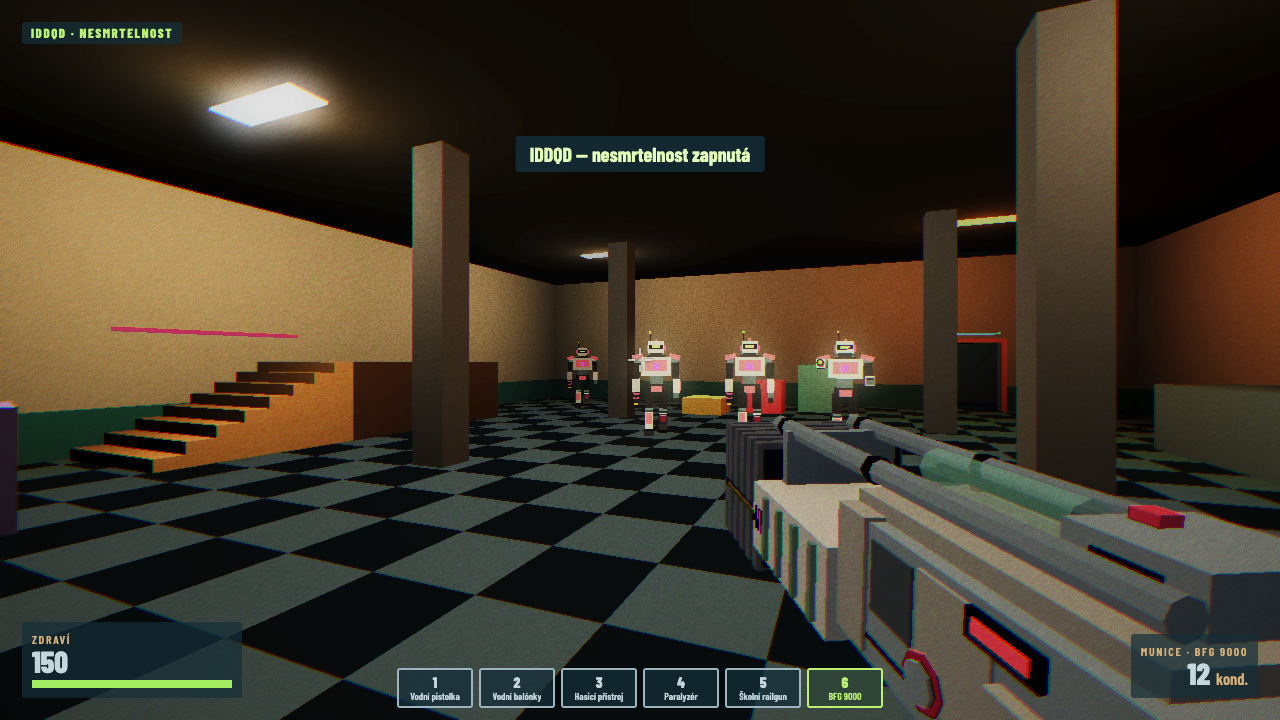
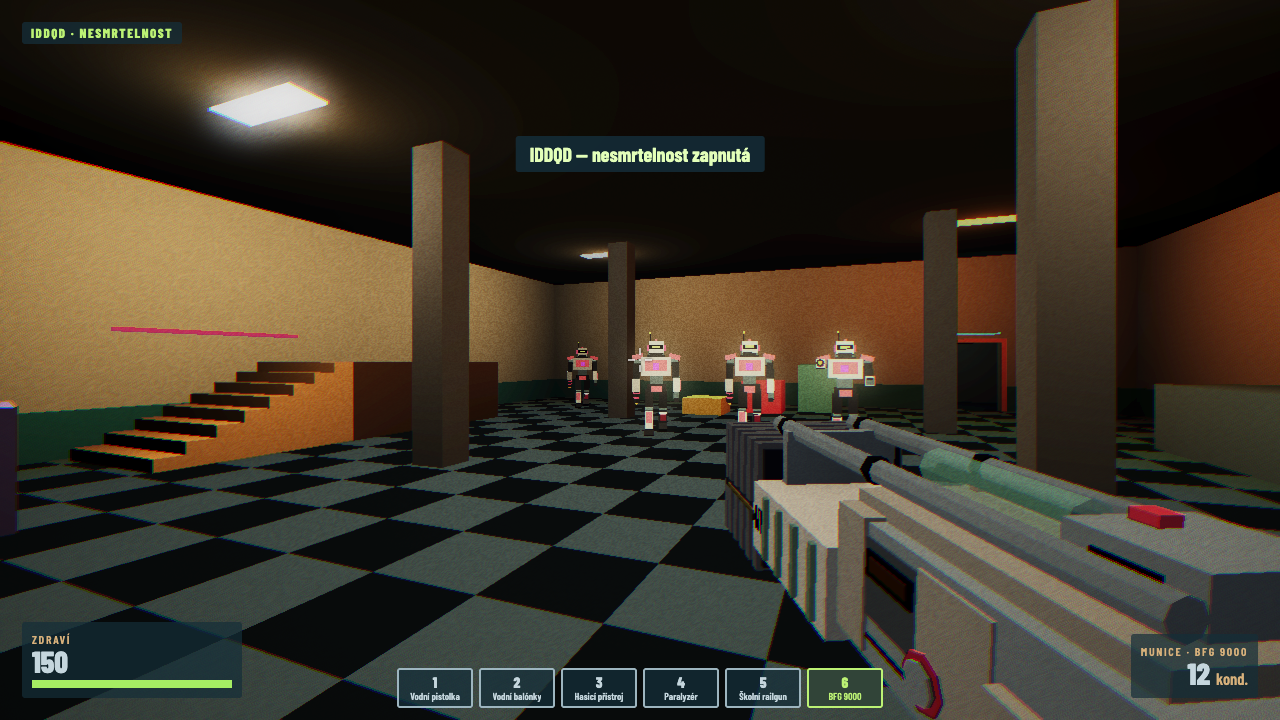
FEEDBACK: BFG side LED panel is dark red, glows bright red through the 5 s cooldown

Changed region(s): [[0.75, 0.825, 0.8438, 0.9778], [0.6562, 0.7639, 0.7188, 0.9167]]

diff --git a/src/weapons/Bfg9000.ts b/src/weapons/Bfg9000.ts
@@ -67,7 +67,7 @@ interface BlastInfo {
  * it and within `params.empVertical` m of its height (the same floor; walls do not stop it) takes `damage` electric —
  * enough for any robot on any difficulty — and robots farther out up to `params.stunRadiusN` freeze for
  * `params.stunSeconds`. The player and the teachers are never hurt. After a shot a short cooldown (1 / `fireRate`)
- * with the ribs, the core and the tube dark; then a chime (`sounds.ready`).
+ * with the ribs, the core and the tube dark and the side LED panel bright red; then a chime (`sounds.ready`).
  */
 export class Bfg9000 extends Weapon {
   private readonly balls: PlasmaBalls;
@@ -75,9 +75,12 @@ export class Bfg9000 extends Weapon {
   private readonly effect: EffectData;
   /** Glow colour of the ribs, the core and the tube (`effect.partColor`, else the ball's colour). */
   private readonly partColor: string;
+  /** Glow colour of the side LED panel while cooling down (`effect.cooldownColor`, else the ball's colour). */
+  private readonly cooldownColor: string;
   private readonly core: Glowing;
   private readonly ribs: Glowing[];
   private readonly tube: Glowing;
+  private readonly led: Glowing;
   private readonly shakeRandom: Random;
   private readonly stageTime: number;
   private readonly maxStages: number;
@@ -91,6 +94,7 @@ export class Bfg9000 extends Weapon {
   private readonly ribGlow: number;
   private readonly coreGlow: number;
   private readonly tubeGlow: number;
+  private readonly cooldownGlow: number;
   private readonly idleGlow: number;
   private readonly fullPulse: number;
   private readonly glowFade: number;
@@ -107,6 +111,8 @@ export class Bfg9000 extends Weapon {
   /** Shown glow 0–1 of the core and of each rib: rises with the charge at once, fades back (`glowFade`). */
   private coreLevel = 0;
   private readonly ribLevels: number[];
+  /** Shown glow 0–1 of the side LED panel: 1 while cooling down, fades out once ready. */
+  private ledLevel = 0;
   private charges = 0;
   private cancels = 0;
   private denies = 0;
@@ -119,6 +125,7 @@ export class Bfg9000 extends Weapon {
     const param = (name: string): number => WeaponConfig.param(data, name);
     this.effect = WeaponConfig.effect(data);
     this.partColor = this.effect.partColor ?? this.effect.color;
+    this.cooldownColor = this.effect.cooldownColor ?? this.effect.color;
     this.stageTime = param("stageTime");
     this.maxStages = param("maxStages");
     this.stages = Array.from({ length: this.maxStages }, (_, i) => ({
@@ -135,6 +142,7 @@ export class Bfg9000 extends Weapon {
     this.ribGlow = param("ribGlow");
     this.coreGlow = param("coreGlow");
     this.tubeGlow = param("tubeGlow");
+    this.cooldownGlow = param("cooldownGlow");
     this.idleGlow = param("idleGlow");
     this.fullPulse = param("fullPulse");
     this.glowFade = param("glowFade");
@@ -168,6 +176,7 @@ export class Bfg9000 extends Weapon {
     this.core = this.ownMaterial(model.core, index++);
     this.ribs = model.ribs.map((mesh) => this.ownMaterial(mesh, index++));
     this.tube = this.ownMaterial(model.tube, index++);
+    this.led = this.ownMaterial(model.led, index++);
     this.ribLevels = this.ribs.map(() => 0);
     this.updateGlow();
   }
@@ -221,6 +230,7 @@ export class Bfg9000 extends Weapon {
       cooling: this.cooling ? 1 : 0,
       cooldownLeft: this.cooldownLeft,
       coreGlow: this.coreLevel,
+      ledGlow: this.ledLevel,
       ribGlow1: this.ribLevels[0] ?? 0,
       ribGlow2: this.ribLevels[1] ?? 0,
       ribGlow3: this.ribLevels[2] ?? 0,
@@ -283,7 +293,7 @@ export class Bfg9000 extends Weapon {
   override dispose(): void {
     this.balls.dispose();
     this.blast.dispose();
-    for (const { material } of [this.core, ...this.ribs, this.tube]) material.dispose();
+    for (const { material } of [this.core, ...this.ribs, this.tube, this.led]) material.dispose();
     super.dispose();
   }
 
@@ -444,13 +454,15 @@ export class Bfg9000 extends Weapon {
   private darken(): void {
     this.coreLevel = 0;
     this.ribLevels.fill(0);
+    this.ledLevel = this.cooling ? 1 : 0;
     this.updateGlow();
   }
 
   /**
    * Target glow per part this step — charging: completed ribs lit, the rib charging ramps up with its stage, ribs
    * beyond the cap dark, the core with the whole charge; ready: the core faintly (`idleGlow`);
-   * cooling down: dark, the core coming back towards the idle glow — and the shown glow follows: up at once, down
+   * cooling down: dark, the core coming back towards the idle glow, the side LED panel lit — and the shown glow
+   * follows: up at once, down
    * fading by `glowFade` per second (a released charge fades back).
    */
   private stepGlow(dt: number): void {
@@ -466,6 +478,7 @@ export class Bfg9000 extends Weapon {
       if (this.charging && i < cap) rib = i < this.completed ? 1 : i === this.completed ? this.chargeLevel - this.completed : 0;
       this.ribLevels[i] = follow(this.ribLevels[i]!, rib);
     }
+    this.ledLevel = follow(this.ledLevel, this.cooling ? 1 : 0);
   }
 
   /**
@@ -476,12 +489,13 @@ export class Bfg9000 extends Weapon {
     const t = this.context.game.simulatedTimeMs / MS_PER_SECOND;
     const waiting = this.charging && this.completed >= this.cap;
     const pulse = waiting ? 1 + this.fullPulse * Math.sin(t * FULL_PULSE_RATE) : 1;
-    const apply = ({ material, base }: Glowing, level: number, full: number): void => {
-      material.emissiveColor = level > 0 ? base.scale(1 - Math.min(level, 1)).add(PaletteColor.emissive(this.partColor, full * level * pulse)) : base;
+    const apply = ({ material, base }: Glowing, level: number, full: number, color = this.partColor, beat = pulse): void => {
+      material.emissiveColor = level > 0 ? base.scale(1 - Math.min(level, 1)).add(PaletteColor.emissive(color, full * level * beat)) : base;
     };
     apply(this.core, this.coreLevel, this.coreGlow);
     this.ribs.forEach((rib, i) => apply(rib, this.ribLevels[i]!, this.ribGlow));
     // The tube follows the lit ribs: a quarter green per rib, the greenest at a full charge.
     apply(this.tube, this.ribLevels.reduce((sum, level) => sum + level, 0) / this.ribLevels.length, this.tubeGlow);
+    apply(this.led, this.ledLevel, this.cooldownGlow, this.cooldownColor, 1);
   }
 }

diff --git a/tests/e2e/bfg.spec.ts b/tests/e2e/bfg.spec.ts
@@ -9,7 +9,7 @@ import { WeaponBench } from "../support/WeaponBench";
 // per second), the full-charge ball in flight and its EMP burst; then the charge mechanics in the long hall
 // `weapons-long` (paused, deterministic `__game.step`): 1 s per stage, n capacitors spent, the EMP radius per stage
 // measured with robots 5 / 8 / 11 / 14 m from the impact, a release before the first stage spends nothing, the reserve
-// caps the stages, the 5 s cooldown, a weapon switch cancels; finally the first full-charge shot in real time with the
+// caps the stages, the 5 s cooldown (the side LED panel glows red through it), a weapon switch cancels; finally the first full-charge shot in real time with the
 // game's own settings (Střední, 1280×720 on a Retina ×2 display like hitches.spec.ts): no frame over 50 ms from the
 // press to the end of the blast, because the ball, the trail, the shell, the flash and the arcs are pooled and drawn in
 // the load-time warm-up (the BFG is `preload`) and the charge only changes uniforms.
@@ -175,6 +175,7 @@ test("the corridor extinguisher, then the BFG 9000 in the gym: ready, four charg
   expect(ready.extra.chargeCap).toBe(MAX_STAGES);
   expect(ready.reserve).toBe(POOL_MAX);
   expect(ribsLit(ready.extra)).toBe(0);
+  expect(ready.extra.ledGlow, "the side LED panel is dark when ready").toBe(0);
   await page.waitForTimeout(300);
   await page.screenshot({ path: ShotPath.of("bfg-ready.png") });
 
@@ -207,6 +208,7 @@ test("the corridor extinguisher, then the BFG 9000 in the gym: ready, four charg
   expect(ribsLit(flying.s.extra)).toBe(0);
   expect(flying.s.extra.ribGlow1).toBe(0);
   expect(flying.s.extra.cooling).toBe(1);
+  expect(flying.s.extra.ledGlow, "the side LED panel glows red while cooling down").toBe(1);
   expect(flying.hud?.text).toBe(texts.hud.cooldown);
   await page.screenshot({ path: ShotPath.of("bfg-ball-flying.png") });
 
@@ -457,9 +459,11 @@ test.describe("charge mechanics in the long hall", () => {
     expect(hud?.bar).toBeGreaterThan(0.9);
     await page.evaluate(() => window.__game!.input!.simulate("fire", 1000 / 60));
     expect((await state()).extra.charging, "still cooling down").toBe(0);
+    expect((await state()).extra.ledGlow, "the LED panel stays lit to the end of the cooldown").toBe(1);
     await steps(6);
     const cooled = await state();
     expect(cooled.extra.cooling).toBe(0);
+    expect(cooled.extra.ledGlow, "the LED panel fades once cooled down").toBeLessThan(1);
     expect(cooled.extra.readiness).toBe(1);
     expect(await plays(bfg.sounds.ready!)).toBe(chimes + 1);
     expect(await page.evaluate(() => window.__game!.hud!.recharge())).toBeNull();

diff --git a/src/weapons/models/Bfg9000Model.ts b/src/weapons/models/Bfg9000Model.ts
@@ -9,6 +9,8 @@ const BLUEPRINT = "bfg9000";
 /** Parts that glow with the charge: the emitter in the muzzle, the four ribs of the charge block (back to front), the glass tube on top. */
 const CORE = "core";
 const TUBE = "glassTube";
+/** The red LED panel on both sides: dark, bright red while the gun cools down after a shot. */
+const LED = "led";
 const RIBS = ["rib1", "rib2", "rib3", "rib4"];
 
 /**
@@ -16,8 +18,8 @@ const RIBS = ["rib1", "rib2", "rib3", "rib4"];
  * round button, top tubes over the whole length with a glass tube between them, front grip, skeleton stock), a white charge block whose four ribs
  * stand proud only on its sides (green and white stripes from the side) and a big black ribbed muzzle block (blueprint
  * `bfg9000`). Parameters: variant, colour overrides, scale, light scale. Exposes the muzzle and the glowing parts — the
- * emitter core in the muzzle, the four ribs (one lights up per charge stage, back to front) and the glass tube (greener
- * with every lit rib) — which
+ * emitter core in the muzzle, the four ribs (one lights up per charge stage, back to front) the glass tube (greener
+ * with every lit rib) and the side LED panel (red during the cooldown) — which
  * src/weapons/Bfg9000.ts lights with the charge and darkens after a shot.
  */
 export class Bfg9000Model {
@@ -29,7 +31,9 @@ export class Bfg9000Model {
   readonly ribs: readonly Mesh[];
   /** The translucent glass tube on top: turns green with the charge. */
   readonly tube: Mesh;
-  /** Every glowing part: the core, the ribs and the glass tube. */
+  /** The side LED panel: glows red during the cooldown. */
+  readonly led: Mesh;
+  /** Every glowing part: the core, the ribs, the glass tube and the LED panel. */
   readonly glowing: readonly Mesh[];
   private readonly built: BuiltModel;
 
@@ -42,7 +46,8 @@ export class Bfg9000Model {
     this.core = parts.part(CORE);
     this.ribs = RIBS.map((name) => parts.part(name));
     this.tube = parts.part(TUBE);
-    this.glowing = [this.core, ...this.ribs, this.tube];
+    this.led = parts.part(LED);
+    this.glowing = [this.core, ...this.ribs, this.tube, this.led];
   }
 
   dispose(): void {

diff --git a/src/weapons/WeaponConfig.ts b/src/weapons/WeaponConfig.ts
@@ -92,6 +92,8 @@ export interface EffectData {
   colorEnd: string;
   /** Colour of the weapon's own glowing parts (the BFG's ribs, core and glass tube); `color` when omitted. */
   partColor?: string;
+  /** Colour of the BFG's side LED panel while it cools down; `color` when omitted. */
+  cooldownColor?: string;
   /** Colour multiplier of the particles (above 1 reaches the bloom threshold). */
   glow: number;
   /** Particles per shot (drops off the water jet, impact sparks, sparks along the beam). */
@@ -264,6 +266,7 @@ export class WeaponConfig {
               color: Schema.paletteRef(),
               colorEnd: Schema.paletteRef(),
               partColor: Schema.paletteRef(),
+              cooldownColor: Schema.paletteRef(),
               glow: positive(),
               particles: Schema.integer({ min: 0 }),
               size: range2(),
@@ -277,7 +280,7 @@ export class WeaponConfig {
               width: Schema.number({ min: 0.001 }),
               glowWidth: Schema.number({ min: 1 }),
             },
-            ["partColor", "time", "segment", "jitter", "forks", "width", "glowWidth"],
+            ["partColor", "cooldownColor", "time", "segment", "jitter", "forks", "width", "glowWidth"],
           ),
           params: Schema.record(Schema.number()),
         },

diff --git a/tests/data/weapons-data.test.ts b/tests/data/weapons-data.test.ts
@@ -75,7 +75,7 @@ test("weapons.json: phase 13 weapons carry the numbers and looks their classes r
   need("taser", ["arcAngleDeg", "maxTargets", "stunSeconds", "stunStrength"]);
   need("railgun", ["pierce", "aimAssistDeg"]);
   const stages = [1, 2, 3, 4].flatMap((n) => [`empRadius${n}`, `stunRadius${n}`, `ballSize${n}`, `ballBrightness${n}`]);
-  need("bfg9000", ["stageTime", "maxStages", ...stages, "ballSpeed", "ballRadius", "ballHitRadius", "maxFlightTime", "empVertical", "stunSeconds", "shellTime", "ribGlow", "coreGlow", "tubeGlow", "idleGlow", "glowFade"]);
+  need("bfg9000", ["stageTime", "maxStages", ...stages, "ballSpeed", "ballRadius", "ballHitRadius", "maxFlightTime", "empVertical", "stunSeconds", "shellTime", "ribGlow", "coreGlow", "tubeGlow", "cooldownGlow", "idleGlow", "glowFade"]);
   for (const id of ["extinguisher", "taser", "railgun", "bfg9000"]) assert.ok(WeaponConfig.weapon(id).effect !== undefined, `${id} needs an effect block`);
   for (const id of ["waterBalloons", "extinguisher"]) assert.ok(WeaponConfig.weapon(id).stream !== undefined, `${id} needs a stream block`);
 

diff --git a/DECISIONS.md b/DECISIONS.md
@@ -580,3 +580,4 @@ Měřeno ve hře, ne spočítáno: `tests/e2e/weapons-balance.spec.ts` v nové d
 - **BFG: zhasnutá žebra šedozelená (`world.ribGreen` #647a6b, emissive 0,55) a blok ústí šedý plast (`world.concrete` 0,6 / `base.ash` 0,4), rozsvícení žeber jejich vlastní svit nahrazuje místo přičítání:** zbraň v ruce má jen 40 % světla (`lightScale` 0,4), takže tmavé díly bez vlastního svitu byly černé, a přičtená zelená na šedém základu by byla bledě mátová.
 - **BFG: černý válec nahoře je skleněná trubice (`world.tileMint`, alpha 0,55, tmavé vlákno uvnitř), která zezelená o čtvrtinu za každé rozsvícené žebro (`params.tubeGlow`):** černý byl pod ztlumeným světlem zbraně jen díra a podíl rozsvícených žeber dává druhý, shora viditelný ukazatel nabití bez nového stavu.
 - **FEEDBACK 2026-10-04 — Vodní pistolka 3 výstřely/s místo 6, poškození 4 zůstává:** člověk chtěl pomalejší kadenci a slabší pistolku, takže zpomalení samo půlí DPS (24 → 12), počet zásahů na robota (testy `enemies-data` a `enemy-types`) se nemění a ostatní zbraně jsou proti ní výraznější upgrade.
+- **FEEDBACK 2026-10-04 — BFG ukazuje chlazení bočním LED panelem:** panel (`led`, `world.rust` se slabým svitem) svítí po celou dobu chlazení jasně barvou `effect.cooldownColor` a posunul se ze zadní části pouzdra na šedý boční panel před spouští, protože vzadu byl při zákluzu mimo obraz.
